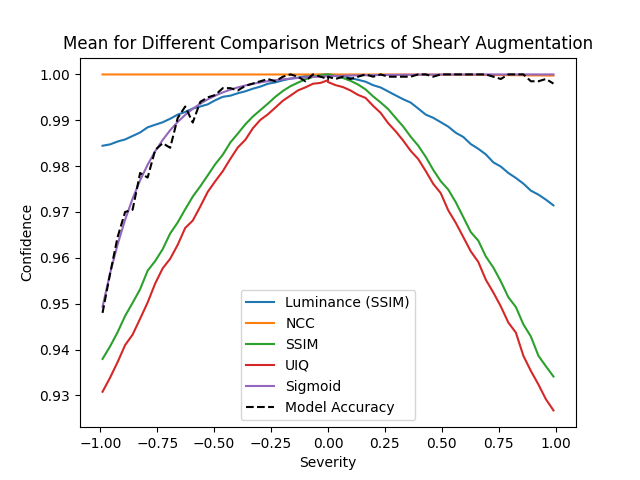
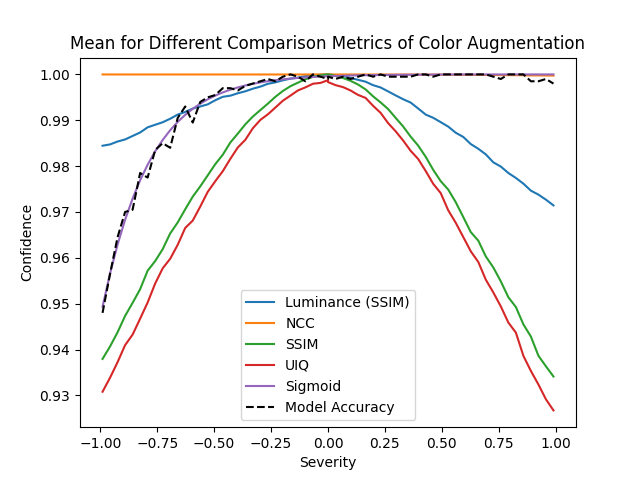
incorporated rc

Changed region(s): [[0.0938, 0.0625, 0.9375, 0.125]]

diff --git a/utils/custom_trivial_augment.py b/utils/custom_trivial_augment.py
@@ -451,70 +451,70 @@ class CTrivialAugmentWide(torch.nn.Module):
         self.interpolation = interpolation
         self.fill = fill
         """MODIFICATION: Add severity"""
-        # self.severity = severity
-        # self.augmentation_name = augmentation_name
-        # self.get_signed = get_signed
+        self.severity = severity
+        self.augmentation_name = augmentation_name
+        self.get_signed = get_signed
         """MODIFICATION: Add severity"""
 
     def _augmentation_space(self, num_bins: int) -> Dict[str, Tuple[Tensor, bool]]:
-        return {
-            # op_name: (magnitudes, signed)
-            "Identity": (torch.tensor(0.0), False),
-            "ShearX": (torch.linspace(0.0, 0.99, num_bins), True),
-            "ShearY": (torch.linspace(0.0, 0.99, num_bins), True),
-            "TranslateX": (torch.linspace(0.0, 32.0, num_bins), True),
-            "TranslateY": (torch.linspace(0.0, 32.0, num_bins), True),
-            "Rotate": (torch.linspace(0.0, 135.0, num_bins), True),
-            "Brightness": (torch.linspace(0.0, 0.99, num_bins), True),
-            "Color": (torch.linspace(0.0, 0.99, num_bins), True),
-            "Contrast": (torch.linspace(0.0, 0.99, num_bins), True),
-            "Sharpness": (torch.linspace(0.0, 0.99, num_bins), True),
-            "Posterize": (
-                8 - (torch.arange(num_bins) / ((num_bins - 1) / 6)).round().int(),
-                False,
-            ),
-            "Solarize": (torch.linspace(255.0, 0.0, num_bins), False),
-            "AutoContrast": (torch.tensor(0.0), False),
-            "Equalize": (torch.tensor(0.0), False),
-        }
-        # print(f'augmentation_name: {self.augmentation_name}\tseverity: {self.severity}')
-        # if self.augmentation_name == "Identity":
-        #     return {"Identity": (torch.tensor(0.0), False)}
-        # elif self.augmentation_name == "ShearX":
-        #     return {"ShearX": (torch.linspace(0.0, 0.99, num_bins), True)}
-        # elif self.augmentation_name == "ShearY":
-        #     return {"ShearY": (torch.linspace(0.0, 0.99, num_bins), True)}
-        # elif self.augmentation_name == "TranslateX":
-        #     return {"TranslateX": (torch.linspace(0.0, 32.0, num_bins), True)}
-        # elif self.augmentation_name == "TranslateY":
-        #     return {"TranslateY": (torch.linspace(0.0, 32.0, num_bins), True)}
-        # elif self.augmentation_name == "Rotate":
-        #     return {"Rotate": (torch.linspace(0.0, 135.0, num_bins), True)}
-        # elif self.augmentation_name == "Brightness":
-        #     return {"Brightness": (torch.linspace(0.0, 0.99, num_bins), True)}
-        # elif self.augmentation_name == "Color":
-        #     return {"Color": (torch.linspace(0.0, 0.99, num_bins), True)}
-        # elif self.augmentation_name == "Contrast":
-        #     return {"Contrast": (torch.linspace(0.0, 0.99, num_bins), True)}
-        # elif self.augmentation_name == "Sharpness":
-        #     return {"Sharpness": (torch.linspace(0.0, 0.99, num_bins), True)}
-        # elif self.augmentation_name == "Posterize":
-        #     return {
-        #         "Posterize": (
-        #             8 - (torch.arange(num_bins) / ((num_bins - 1) / 6)).round().int(),
-        #             False,
-        #         )
-        #     }
-        # elif self.augmentation_name == "Solarize":
-        #     return {"Solarize": (torch.linspace(255.0, 0.0, num_bins), False)}
-        # elif self.augmentation_name == "AutoContrast":
-        #     return {"AutoContrast": (torch.tensor(0.0), False)}
-        # elif self.augmentation_name == "Equalize":
-        #     return {"Equalize": (torch.tensor(0.0), False)}
-        # else:
-        #     raise ValueError(
-        #         f"The provided operator {self.augmentation_name} is not recognized."
-        #     )
+        # return {
+        #     # op_name: (magnitudes, signed)
+        #     "Identity": (torch.tensor(0.0), False),
+        #     "ShearX": (torch.linspace(0.0, 0.99, num_bins), True),
+        #     "ShearY": (torch.linspace(0.0, 0.99, num_bins), True),
+        #     "TranslateX": (torch.linspace(0.0, 32.0, num_bins), True),
+        #     "TranslateY": (torch.linspace(0.0, 32.0, num_bins), True),
+        #     "Rotate": (torch.linspace(0.0, 135.0, num_bins), True),
+        #     "Brightness": (torch.linspace(0.0, 0.99, num_bins), True),
+        #     "Color": (torch.linspace(0.0, 0.99, num_bins), True),
+        #     "Contrast": (torch.linspace(0.0, 0.99, num_bins), True),
+        #     "Sharpness": (torch.linspace(0.0, 0.99, num_bins), True),
+        #     "Posterize": (
+        #         8 - (torch.arange(num_bins) / ((num_bins - 1) / 6)).round().int(),
+        #         False,
+        #     ),
+        #     "Solarize": (torch.linspace(255.0, 0.0, num_bins), False),
+        #     "AutoContrast": (torch.tensor(0.0), False),
+        #     "Equalize": (torch.tensor(0.0), False),
+        # }
+        print(f'augmentation_name: {self.augmentation_name}\tseverity: {self.severity}')
+        if self.augmentation_name == "Identity":
+            return {"Identity": (torch.tensor(0.0), False)}
+        elif self.augmentation_name == "ShearX":
+            return {"ShearX": (torch.linspace(0.0, 0.99, num_bins), True)}
+        elif self.augmentation_name == "ShearY":
+            return {"ShearY": (torch.linspace(0.0, 0.99, num_bins), True)}
+        elif self.augmentation_name == "TranslateX":
+            return {"TranslateX": (torch.linspace(0.0, 32.0, num_bins), True)}
+        elif self.augmentation_name == "TranslateY":
+            return {"TranslateY": (torch.linspace(0.0, 32.0, num_bins), True)}
+        elif self.augmentation_name == "Rotate":
+            return {"Rotate": (torch.linspace(0.0, 135.0, num_bins), True)}
+        elif self.augmentation_name == "Brightness":
+            return {"Brightness": (torch.linspace(0.0, 0.99, num_bins), True)}
+        elif self.augmentation_name == "Color":
+            return {"Color": (torch.linspace(0.0, 0.99, num_bins), True)}
+        elif self.augmentation_name == "Contrast":
+            return {"Contrast": (torch.linspace(0.0, 0.99, num_bins), True)}
+        elif self.augmentation_name == "Sharpness":
+            return {"Sharpness": (torch.linspace(0.0, 0.99, num_bins), True)}
+        elif self.augmentation_name == "Posterize":
+            return {
+                "Posterize": (
+                    8 - (torch.arange(num_bins) / ((num_bins - 1) / 6)).round().int(),
+                    False,
+                )
+            }
+        elif self.augmentation_name == "Solarize":
+            return {"Solarize": (torch.linspace(255.0, 0.0, num_bins), False)}
+        elif self.augmentation_name == "AutoContrast":
+            return {"AutoContrast": (torch.tensor(0.0), False)}
+        elif self.augmentation_name == "Equalize":
+            return {"Equalize": (torch.tensor(0.0), False)}
+        else:
+            raise ValueError(
+                f"The provided operator {self.augmentation_name} is not recognized."
+            )
 
     def forward(self, img: Tensor) -> Tensor:
         """
@@ -537,20 +537,20 @@ class CTrivialAugmentWide(torch.nn.Module):
         magnitudes, signed = op_meta[op_name]
 
         """MODIFCATION: Set magnitude and remove signed"""
-        magnitude = (
-            float(
-                magnitudes[
-                    torch.randint(len(magnitudes), (1,), dtype=torch.long)
-                ].item()
-            )
-            if magnitudes.ndim > 0
-            else 0.0
-        )
-        if signed and torch.randint(2, (1,)):
-            magnitude *= -1.0
-        # magnitude = float(magnitudes[self.severity].item())
-        # if self.get_signed and op_name not in ['Solarize', 'Posterize']:
+        # magnitude = (
+        #     float(
+        #         magnitudes[
+        #             torch.randint(len(magnitudes), (1,), dtype=torch.long)
+        #         ].item()
+        #     )
+        #     if magnitudes.ndim > 0
+        #     else 0.0
+        # )
+        # if signed and torch.randint(2, (1,)):
         #     magnitude *= -1.0
+        magnitude = float(magnitudes[self.severity].item())
+        if self.get_signed and op_name not in ['Solarize', 'Posterize']:
+            magnitude *= -1.0
         """MODIFICATION: Set magnitude and remove signed"""
 
 

diff --git a/utils/plot_csv.py b/utils/plot_csv.py
@@ -8,7 +8,7 @@ def read_csv(file_path):
     return df["Severity"], df["Mean"], df["Accuracy"]
 
 
-def plot_mean_and_accuracy(file_paths, out_path):
+def plot_mean_and_accuracy(file_paths, out_path, augmentation_type):
     data, accuracies = {}, {}
     # accuracy = None
     mean_acc = 0
@@ -27,20 +27,22 @@ def plot_mean_and_accuracy(file_paths, out_path):
 
     # for k, values in data.items():
     #     plt.plot(values["Severity"], values["Mean"], label=f"k={k}")
-    # plt.plot(data[1]["Severity"], data[1]["Mean"], label="psnr")
-    plt.plot(data[1]["Severity"], data[1]["Mean"], label="Contrast (SSIM)")
-    plt.plot(data[2]["Severity"], data[2]["Mean"], label="Luminance (SSIM)")
-    plt.plot(data[1]["Severity"], data[1]["Mean"], label="NCC")
-    plt.plot(data[2]["Severity"], data[2]["Mean"], label="SSIM")
-    plt.plot(data[3]["Severity"], data[3]["Mean"], label="SCC")
-    # plt.plot(data[5]["Severity"], data[5]["Mean"], label="Sigmoid")
+    # plt.plot(data[1]["Severity"], data[1]["Mean"], label="Contrast (SSIM)")
+    plt.plot(data[1]["Severity"], data[1]["Mean"], label="Luminance (SSIM)")
+    plt.plot(data[2]["Severity"], data[2]["Mean"], label="NCC")
+    plt.plot(data[3]["Severity"], data[3]["Mean"], label="SSIM")
+    # plt.plot(data[3]["Severity"], data[3]["Mean"], label="SCC")
+    plt.plot(data[4]["Severity"], data[4]["Mean"], label="UIQ")
+    plt.plot(data[5]["Severity"], data[5]["Mean"], label="Sigmoid")
+    # plt.plot(data[6]["Severity"], data[6]["Mean"], label="Custom Function")
+    # plt.plot(data[7]["Severity"], data[7]["Mean"], label="VIF")
 
     plt.plot(severity, mean_acc, label="Model Accuracy",
              linestyle="--", color="black")
 
     plt.xlabel("Severity")
     plt.ylabel("Confidence")
-    plt.title("Mean for Different Comparison Metrics of ShearY Augmentation")
+    plt.title(f"Mean for Different Comparison Metrics of {augmentation_type} Augmentation")
     plt.legend()
     plt.savefig(out_path)
     plt.show()
@@ -48,15 +50,17 @@ def plot_mean_and_accuracy(file_paths, out_path):
 
 # Example usage
 if __name__ == "__main__":
-    augmentation_type = 'Posterize'
+    augmentation_type = 'Contrast'
     file_paths = [
         f"/home/ekagra/Documents/GitHub/MasterArbeit/non_linear_mapping_data/{augmentation_type}/{augmentation_type}_contrast_ssim_results.csv",
-        f"/home/ekagra/Documents/GitHub/MasterArbeit/non_linear_mapping_data/{augmentation_type}/{augmentation_type}_luminance_ssim_results.csv",
+        # f"/home/ekagra/Documents/GitHub/MasterArbeit/non_linear_mapping_data/{augmentation_type}/{augmentation_type}_luminance_ssim_results.csv",
         f"/home/ekagra/Documents/GitHub/MasterArbeit/non_linear_mapping_data/{augmentation_type}/{augmentation_type}_ncc_results.csv",
         f"/home/ekagra/Documents/GitHub/MasterArbeit/non_linear_mapping_data/{augmentation_type}/{augmentation_type}_ssim_results.csv",
-        # f"/home/ekagra/Documents/GitHub/MasterArbeit/non_linear_mapping_data/{augmentation_type}/{augmentation_type}_uiq_results.csv",
-        f"/home/ekagra/Documents/GitHub/MasterArbeit/non_linear_mapping_data/{augmentation_type}/{augmentation_type}_scc_results.csv",
-        # f"/home/ekagra/Documents/GitHub/MasterArbeit/non_linear_mapping_data/{augmentation_type}/{augmentation_type}_sigmoid_results.csv",
+        f"/home/ekagra/Documents/GitHub/MasterArbeit/non_linear_mapping_data/{augmentation_type}/{augmentation_type}_uiq_results.csv",
+        # f"/home/ekagra/Documents/GitHub/MasterArbeit/non_linear_mapping_data/{augmentation_type}/{augmentation_type}_scc_results.csv",
+        f"/home/ekagra/Documents/GitHub/MasterArbeit/non_linear_mapping_data/{augmentation_type}/{augmentation_type}_sigmoid_results.csv",
+        # f"/home/ekagra/Documents/GitHub/MasterArbeit/non_linear_mapping_data/{augmentation_type}/{augmentation_type}_test_results.csv",
+        # f"/home/ekagra/Documents/GitHub/MasterArbeit/non_linear_mapping_data/{augmentation_type}/{augmentation_type}_vif_results.csv",
     ]
     out_path = f"/home/ekagra/Documents/GitHub/MasterArbeit/non_linear_mapping_data/{augmentation_type}/{augmentation_type}_results.png"
-    plot_mean_and_accuracy(file_paths, out_path)
+    plot_mean_and_accuracy(file_paths, out_path, augmentation_type)

diff --git a/augment_dataset.py b/augment_dataset.py
@@ -54,6 +54,7 @@ class AugmentedDataset(torch.utils.data.Dataset):
             Optional[float]: The combined confidence value.
         """
         combined_confidence = reduce(lambda x, y: x * y, confidences)
+        # print(f'Combined confidence: {combined_confidence}')
         return combined_confidence
 
     def __getitem__(self, i: Optional[int]) -> Optional[tuple]:
@@ -75,8 +76,9 @@ class AugmentedDataset(torch.utils.data.Dataset):
             if original == True
             else self.transforms_generated
         )
-        augment_x = augment(x)
 
+        augment_x = augment(x)
+    
         if isinstance(augment_x, tuple):
             confidences = augment_x[1]
             augment_x = augment_x[0]
@@ -223,6 +225,9 @@ def display_image_grid(images, labels, confidences, batch_size):
         "truck",
     ]
 
+    if isinstance(confidences, list):
+        confidences = confidences[1]
+
     # Convert images to a grid
     grid_img = torchvision.utils.make_grid(images, nrow=batch_size)
 
@@ -249,7 +254,7 @@ if __name__ == "__main__":
     batch_size = 10
 
     transforms_preprocess, transforms_augmentation = create_transforms(
-        random_cropping=True, aggressive_augmentation=True, custom=False, augmentation_name="Brightness", augmentation_severity=29, augmentation_sign=True
+        random_cropping=True, aggressive_augmentation=True, custom=True, augmentation_name="Brightness", augmentation_severity=29, augmentation_sign=True
     )
     trainset, testset = load_data(
         transforms_preprocess=transforms_preprocess,
@@ -259,7 +264,5 @@ if __name__ == "__main__":
     trainloader = torch.utils.data.DataLoader(
         trainset, batch_size=batch_size, shuffle=False
     )
-
     images, labels, confidences = next(iter(trainloader))
-    print(transforms_augmentation)
-    display_image_grid(images, labels, confidences, batch_size=batch_size)
+    # display_image_grid(images, labels, confidences, batch_size=batch_size)

diff --git a/augmentations/random_crop.py b/augmentations/random_crop.py
@@ -80,6 +80,10 @@ class RandomCrop:
         if isinstance(image, tuple) and len(image) == 2 and isinstance(image[1], float):
             confidence_aa = image[1]
             image = image[0]
+        elif isinstance(image, tuple) and len(image) == 2 and isinstance(image[1], list):
+            confidence_aa = image[1][1]
+            image = image[0]
+
         to_tensor = transforms.ToTensor()
         image = to_tensor(image)
         dim1, dim2 = image.size(1), image.size(2)
@@ -108,12 +112,12 @@ class RandomCrop:
 
         # combine confidence scores if available
         if confidence_aa is not None:
-            confidence_aa = torch.tensor(confidence_aa, dtype=torch.float32)
+            # confidence_aa = torch.tensor(confidence_aa, dtype=torch.float32)
             confidences = (confidence_aa, confidence_rc)
         else:
             confidences = confidence_rc
 
         to_pil = transforms.ToPILImage()
         cropped_image = to_pil(cropped_image)
-
+        print(f'confidence_rc: {confidence_rc}\tconfidence_aa: {confidence_aa}\tconfidences: {confidences}')    
         return cropped_image, confidences
